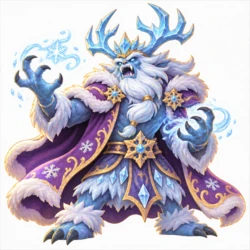
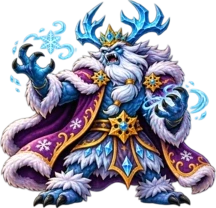
Clean up enemy sprites and extend the Christmas route to the harbor

diff --git a/src/features/games/santa-jump/components/GameWidgetView.tsx b/src/features/games/santa-jump/components/GameWidgetView.tsx
@@ -7,6 +7,8 @@ import santa from './santa-runner.webp';
 import workshop from '../art/workshop.webp';
 import forest from '../art/evergreen-forest.webp';
 import village from '../art/village-rooftops.webp';
+import glassworks from '../art/aurora-glassworks.webp';
+import harbor from '../art/starlight-harbor.webp';
 import tower from '../art/star-observatory.webp';
 import letter from '../art/sealed-letter.webp';
 import star from '../art/gold-star.webp';
@@ -24,9 +26,9 @@ import goblin from '../art/pine-goblin.webp';
 import king from '../art/frost-king.webp';
 import css from './GameWidget.module.css';
 
-const scenes = [workshop, forest, village, tower];
-const grounds = [workshopFloor, forestFloor, roof, marble];
-const hazards = [present, stump, chimney, ice];
+const scenes = [workshop, forest, village, tower, glassworks, harbor];
+const grounds = [workshopFloor, forestFloor, roof, marble, marble, workshopFloor];
+const hazards = [present, stump, chimney, ice, ice, present];
 const items = { letter, star, shield, goblin, blast: ice, counterStar: star };
 const chapterNumber = (index: number) => String(index + 1).padStart(2, '0');
 
@@ -85,7 +87,7 @@ export default function GameWidgetView({ state, record, unlocked, jump, pause, p
 
       <div className={css.body}>
         <div className={css.main}>
-          <section className={css.board} data-active={playing || undefined} style={{
+          <section className={css.board} data-panorama={chapter >= 4 || undefined} data-active={playing || undefined} style={{
             backgroundImage: `url("${scenes[chapter]}")`,
             backgroundPositionX: `${50 + 44 * Math.sin(state.distance / 1450)}%`,
           }} aria-label={level.name}>
@@ -103,7 +105,7 @@ export default function GameWidgetView({ state, record, unlocked, jump, pause, p
                 style={spriteStyle(SANTA_X, state.height, SANTA_SIZE)} />
               {state.bossHP !== null && <img className={css.sprite} src={king} alt="Frost King" style={spriteStyle(618, 0, 136)} />}
               {state.entities.map(e => <img key={e.id}
-                className={css.sprite} alt={e.kind === 'hazard' ? level.hazard : e.kind === 'goblin' ? 'Pine goblin' : ''}
+                className={css.sprite} data-foe={e.kind === 'goblin' ? 'goblin' : undefined} alt={e.kind === 'hazard' ? level.hazard : e.kind === 'goblin' ? 'Pine goblin' : ''}
                 src={e.kind === 'hazard' ? hazards[chapter] : items[e.kind]}
                 style={spriteStyle(e.x, e.bottom, ['hazard', 'goblin', 'blast'].includes(e.kind) ? HAZARD_SIZE : ITEM_SIZE)} />)}
             </>}
@@ -133,7 +135,7 @@ export default function GameWidgetView({ state, record, unlocked, jump, pause, p
             </div>
           </aside>
         </div>
-        <div className={css.routeTitle}><h2><MapPinned size={17}/> Delivery route</h2><span>{record.filter(Boolean).length} / 4 stops complete</span></div>
+        <div className={css.routeTitle}><h2><MapPinned size={17}/> Delivery route</h2><span>{record.filter(Boolean).length} / {chapters.length} stops complete</span></div>
         <nav className={css.route} aria-label="Choose a delivery stop">
           {chapters.map((c, i) => <button key={c.short} className={css.routeCard} aria-current={chapter === i ? 'step' : undefined}
             disabled={!routeOpen || i > unlocked} onClick={() => select(i)} aria-label={`${c.short}${i > unlocked ? ', locked' : ''}`}>

diff --git a/src/features/games/santa-jump/components/GameWidget.module.css b/src/features/games/santa-jump/components/GameWidget.module.css
@@ -54,6 +54,7 @@
 .startButton { display: flex; align-items: center; gap: 9px; border: 1px solid #f5ce92; border-radius: 5px; color: #24362d; background: #f4d99d; padding: 9px 13px; font-weight: 750 !important; }
 .startButton:hover { background: #ffe8b5; }
 .board[data-active] { background-size: 112% auto; }
+.board[data-panorama][data-active] { background-size: auto 110%; background-repeat: no-repeat; }
 .ground {
   position: absolute; inset: 82.5% 0 0; border-top: 2px solid #eee3c2;
   background-size: 34.210526% 100%; background-repeat: repeat-x;
@@ -99,7 +100,7 @@
 .routeTitle { margin: 17px 0 9px; }
 .routeTitle h2 { gap: 8px; font-size: 19px; } .routeTitle svg,.footer svg { color: var(--gold); }
 .routeTitle > span,.footer { color: var(--muted); font-size: 11px; }
-.route { display: grid; grid-template-columns: repeat(4,minmax(0,1fr)); gap: 8px; }
+.route { display: grid; grid-template-columns: repeat(3,minmax(0,1fr)); gap: 8px; }
 .routeCard { display: flex; align-items: center; gap: 9px; min-width: 0; color: #ece8da; text-align: left; background: #1c3736; border: 1px solid #435b53; border-radius: 7px; padding: 6px; }
 .routeCard[aria-current] { border-color: #ccac71; background: #32473c; }
 .routeCard:disabled { cursor: default; }
@@ -128,4 +129,11 @@
   .gear img { width: 25px; height: 25px; } .gear b { font-size: 11px; }
   .route { grid-template-columns: 1fr 1fr; gap: 4px; } .routeCard img { width: 29px; height: 29px; }
   .routeTitle { margin-top: 9px; } .footer { flex-wrap: wrap; margin-top: 7px; }
+}
+
+@media (prefers-reduced-motion: no-preference) {
+  .board[data-active] [data-foe="goblin"] { animation: scamper .21s ease-in-out infinite alternate; transform-origin: center bottom; }
+  .board[data-active] [data-foe="king"] { animation: hover 2.2s ease-in-out infinite alternate; }
+  @keyframes scamper { to { transform: translateY(-4%) rotate(-4deg); } }
+  @keyframes hover { to { transform: translateY(-3%); } }
 }

diff --git a/src/features/games/santa-jump/constants.ts b/src/features/games/santa-jump/constants.ts
@@ -26,9 +26,21 @@ export const chapters = [
     hazard: 'Brick chimney', speed: 270, spacing: 365, routeLength: 24300, letters: 20, jumps: 2,
   },
   {
-    name: 'Daybreak Observatory', short: 'Observatory', recipient: 'The star keeper', time: '05:10',
+    name: 'Daybreak Observatory', short: 'Observatory', boss: 'frost-king', recipient: 'The star keeper', time: '05:10',
     story: 'Carry the last wishes to the observatory before sunrise. The Frost King guards the summit. Dodge his ice volleys and catch three high stars to break his crown.',
-    ending: 'The North Star shines again. From the smallest attic to the cabin at the edge of the woods, every wish has found its way home.',
+    ending: 'The North Star shines again. From the smallest attic to the cabin at the edge of the woods, a line of lanterns flickers toward the coast. The glassmakers need a new lens for the harbor beacon.',
     hazard: 'Ice crystal', speed: 300, spacing: 350, routeLength: 31500, letters: 26, jumps: 3,
+  },
+  {
+    name: 'Aurora Glassworks', short: 'Glassworks', recipient: 'The glassmakers', time: '05:35',
+    story: 'The furnaces are warm again. Follow the letters above the cooling glass and take the lens order to the master glassmaker.',
+    ending: 'The last furnace opens. Santa wraps the emerald lens in wool and follows the harbor bells down to the docks.',
+    hazard: 'Glass shard', speed: 308, spacing: 362, routeLength: 33264, letters: 27, jumps: 3,
+  },
+  {
+    name: 'Starlight Harbor', short: 'Harbor', recipient: 'The lighthouse keeper', time: '06:10',
+    story: 'Fishing boats wait beyond the breakwater. Leap the cargo on the dock and collect the last letters before the morning tide turns.',
+    ending: 'The new lens catches the first ray of sun. One by one, the boats follow its green light home for Christmas.',
+    hazard: 'Cargo crate', speed: 316, spacing: 358, routeLength: 36024, letters: 29, jumps: 3,
   },
 ] as const;

diff --git a/src/features/games/santa-jump/simulation.ts b/src/features/games/santa-jump/simulation.ts
@@ -41,12 +41,12 @@ export function step(run: Run, dt: number): Run {
     const wave = run.wave;
     const pickup: Entity = {
       id: wave * 2, kind: wave % 2 === 0 && run.letters < level.letters ? 'letter' : wave % 4 === 1 ? 'shield' : 'star',
-      x: WORLD_WIDTH, bottom: run.chapter > 0 && wave % 4 === 2 ? 182 : 67 + (wave % 3) * 9,
+      x: WORLD_WIDTH, bottom: run.chapter >= 4 && wave % 6 === 4 ? 225 : run.chapter > 0 && wave % 4 === 2 ? 182 : 67 + (wave % 3) * 9,
     };
     // The first pickup teaches the arc before any obstacle enters the lane.
     entities = [...entities, pickup];
     if (wave > 0) {
-      const goblin = wave % (5 - run.chapter) === 1;
+      const goblin = wave % Math.max(2, 5 - run.chapter) === 1;
       entities.push({ id: wave * 2 + 1, kind: goblin ? 'goblin' : 'hazard', x: WORLD_WIDTH + 5, bottom: 0 });
     }
     next.nextWave += level.spacing * [1, 1.18, 0.94, 1.34][wave % 4];
@@ -85,7 +85,7 @@ export function step(run: Run, dt: number): Run {
     }
   }
   if (run.bossHP === null && distance >= level.routeLength && next.letters >= level.letters) {
-    if (run.chapter === chapters.length - 1) {
+    if ('boss' in level) {
       next.bossHP = 3;
       next.entities = [];
       next.nextWave = distance + level.speed;

diff --git a/src/features/games/santa-jump/simulation.test.ts b/src/features/games/santa-jump/simulation.test.ts
@@ -15,7 +15,7 @@ for (const [chapter, level] of chapters.entries()) {
       run = step(run, 1 / 60);
     }
     assert.equal(run.phase, 'delivered', JSON.stringify(run));
-    if (chapter === 3) assert.equal(run.bossHP, 0);
+    assert.equal(run.bossHP, 'boss' in level ? 0 : null);
     assert.ok(run.distance >= level.routeLength);
     assert.equal(run.letters, level.letters);
     assert.ok(run.score >= 10 * level.letters);
@@ -53,7 +53,7 @@ test('earned air jumps carry back to earlier stops', () => {
   }
 });
 
-test('reaching the last stop starts the boss fight and cannot skip it', () => {
+test('reaching the observatory starts the boss fight and cannot skip it', () => {
   const level = chapters[3];
   let state: Run = { ...createRun(3), phase: 'playing', letters: level.letters, distance: level.routeLength };
   state = step(state, 1 / 60);
